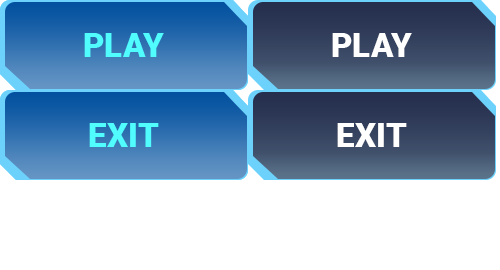
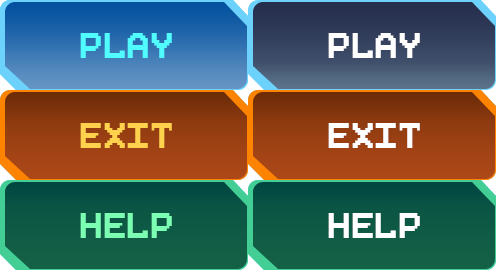
Completed ui

diff --git a/main.cpp b/main.cpp
@@ -51,7 +51,6 @@ int main(int argc, char* argv[])
     Click = Mix_LoadWAV("sounds/click.wav");
     Shoot = Mix_LoadWAV("sounds/shoot.wav");
     Over = Mix_LoadWAV("sounds/game_over.wav");
-    if(Over==nullptr) cout << "error";
     get_hit = Mix_LoadWAV("sounds/get_hit.wav");
     Start = Mix_LoadWAV("sounds/start.wav");
     point = Mix_LoadWAV("sounds/point.wav");
@@ -83,23 +82,34 @@ int main(int argc, char* argv[])
     SDL_Texture* backgroundMenu = loadTexture("images/bgMenu.png",renderer);
     SDL_Texture* backgroundGame = loadTexture("images/backgroundGame.png",renderer);
     SDL_Texture* ButtonTexture = loadTexture("images/Button.png",renderer);
-    SDL_Texture* titleTexture = loadTexture("images/title.png",renderer);
     SDL_Texture* number = loadTexture("images/Number.png",renderer);
     SDL_Texture* gOver = loadTexture("images/game_over.png",renderer);
     SDL_Texture* score_gameTexture = loadTexture("images/score_game.png",renderer);
+    SDL_Texture* PauseTexture = loadTexture("images/pausebutton.png",renderer);
+    SDL_Texture* HelpTexture = loadTexture("images/help.png",renderer);
+    SDL_Texture* backTexture = loadTexture("images/backbutton.png",renderer);
 
     SDL_Rect score_game = {HIGH_SCORE_TEXTPX,HIGH_SCORE_TEXTPY,161,45};
-    SDL_Rect rendertitleRect = {TITLE_POSX,TITLE_POSY,TITLE_WIDTH,TITLE_HEIGHT};
     SDL_Rect renderbgRect = {0,0,SCREEN_WIDTH,SCREEN_HEIGHT};
     SDL_Rect RectPlayButton[BUTTON_MOUSE_TOTAL];
     SDL_Rect RectExitButton[BUTTON_MOUSE_TOTAL];
+    SDL_Rect RectHelpButton[BUTTON_MOUSE_TOTAL];
+    SDL_Rect RectPauseButton[BUTTON_MOUSE_TOTAL];
+    SDL_Rect RectBackButton[BUTTON_MOUSE_TOTAL];
+
     Button playButton(PLAY_BUTTON_POSX,PLAY_BUTTON_POSY);
     Button exitButton(EXIT_BUTTON_POSX,EXIT_BUTTON_POSY);
-    playButton.setRect(RectPlayButton,0);
-    exitButton.setRect(RectExitButton,1);
+    Button helpButton(HELP_BUTTON_POSX,HELP_BUTTON_POSY);
+    Button backButton(BACK_BUTTON_POSX,BACK_BUTTON_POSY);
+    Button pauseButton(PAUSE_BUTTON_POSX,PAUSE_BUTTON_POSY);
+    playButton.setRect(RectPlayButton,0,1);
+    exitButton.setRect(RectExitButton,1,1);
+    helpButton.setRect(RectHelpButton,2,1);
+    backButton.setRect(RectBackButton,0,2);
+    pauseButton.setRect(RectPauseButton,0,2);
 
     //Game manager
-    bool quit = false,playagain = false, gameover = false;
+    bool quit = false,playagain = false, gameover = false, pause = false;
     int lastscore = 0;
     Uint32 speedTimer = 0;
     Uint32 lastShootTime = SDL_GetTicks();
@@ -114,36 +124,46 @@ int main(int argc, char* argv[])
             switch (display)
             {
             case menu:
+                {
                     SDL_RenderCopy(renderer,backgroundMenu,NULL,NULL);
                     while(SDL_PollEvent(&e)!=0)
                     {
                         if(e.type==SDL_QUIT)    quit = true;
 
                         if(e.type==SDL_KEYDOWN&&e.key.keysym.sym==SDLK_ESCAPE) quit = true;
-                        if(playButton.handleEventInside(&e,0)) playButton.currentSprite = BUTTON_MOUSE_OVER;
+                        if(playButton.handleEventInside(&e,1)) playButton.currentSprite = BUTTON_MOUSE_OVER;
                         else playButton.currentSprite = BUTTON_MOUSE_OUT;
-                        if(exitButton.handleEventInside(&e,0)) exitButton.currentSprite = BUTTON_MOUSE_OVER;
+                        if(exitButton.handleEventInside(&e,1)) exitButton.currentSprite = BUTTON_MOUSE_OVER;
                         else exitButton.currentSprite = BUTTON_MOUSE_OUT;
-                        if(playButton.handleEventInside(&e,0)&&e.type == SDL_MOUSEBUTTONDOWN) {
+                        if(helpButton.handleEventInside(&e,1)) helpButton.currentSprite = BUTTON_MOUSE_OVER;
+                        else helpButton.currentSprite = BUTTON_MOUSE_OUT;
+                        if(playButton.handleEventInside(&e,1)&&e.type == SDL_MOUSEBUTTONDOWN) {
                             playagain = 1;
                             display = game;
                             Mix_PlayChannel(-1,Click,0);
                             Mix_HaltMusic();
                             Mix_PlayMusic(gameMusic,-1);
                         }
-                        if(exitButton.handleEventInside(&e,0)&&e.type == SDL_MOUSEBUTTONDOWN) {
-                                quit = true;
-                                Mix_PlayChannel(-1,Click,0);
+                        if(exitButton.handleEventInside(&e,1)&&e.type == SDL_MOUSEBUTTONDOWN) {
+                            quit = true;
+                            Mix_PlayChannel(-1,Click,0);
+                        }
+                        if(helpButton.handleEventInside(&e,1)&&e.type == SDL_MOUSEBUTTONDOWN) {
+                            display = helpscene;
+                            Mix_PlayChannel(-1,Click,0);
                         }
 
                     }
                     RenderNumber(renderer, number, 1, Nova.score);
-                    playButton.render(renderer, &RectPlayButton[playButton.currentSprite], ButtonTexture);
-                    exitButton.render(renderer, &RectExitButton[exitButton.currentSprite], ButtonTexture);
-                    SDL_RenderCopy(renderer,titleTexture,NULL,&rendertitleRect);
+                    playButton.render(renderer, &RectPlayButton[playButton.currentSprite], ButtonTexture,1);
+                    exitButton.render(renderer, &RectExitButton[exitButton.currentSprite], ButtonTexture,1);
+                    helpButton.render(renderer, &RectHelpButton[helpButton.currentSprite], ButtonTexture,1);
                     speedTimer = SDL_GetTicks();
                     break;
+                }
             case game:
+                {
+                    SDL_RenderCopy(renderer,backgroundGame,&renderbgRect,NULL);
                     if(gameover) {
                         while(!quit) {
                             while(SDL_PollEvent(&e)!=0) if(e.type==SDL_QUIT) quit = true;
@@ -155,6 +175,7 @@ int main(int argc, char* argv[])
                             break;
                             }
                             else if(states[SDL_SCANCODE_RETURN]) {
+                            Mix_PlayMusic(gameMusic,-1);
                             playagain = 1;
                             break;
                             }
@@ -174,8 +195,41 @@ int main(int argc, char* argv[])
                         Nova.radius = 290;
                         Mix_PlayChannel(-1,Start,0);
                     }
-                    SDL_RenderCopy(renderer,backgroundGame,&renderbgRect,NULL);
-                    while(SDL_PollEvent(&e)!=0) if(e.type==SDL_QUIT) quit = true;
+                    while(pause&&!quit) {
+                            while(SDL_PollEvent(&e)!=0)
+                            {
+                                if(e.type==SDL_QUIT) quit = true;
+                                if(e.type==SDL_KEYDOWN&&e.key.keysym.sym==SDLK_ESCAPE) {
+                                        display = menu;
+                                        pause = 0;
+                                        Mix_PlayMusic(menuMusic,-1);
+                                }
+                                if(pauseButton.handleEventInside(&e,2)) pauseButton.currentSprite = BUTTON_MOUSE_OVER;
+                                else pauseButton.currentSprite = BUTTON_MOUSE_OUT;
+                                if(pauseButton.handleEventInside(&e,2)&&e.type == SDL_MOUSEBUTTONDOWN)
+                                {
+                                    pause = 0;
+                                    Mix_PlayChannel(-1,Click,0);
+                                    pauseButton.setRect(RectPauseButton,0,2);
+                                    Mix_ResumeMusic();
+                                }
+                                pauseButton.render(renderer, &RectPauseButton[pauseButton.currentSprite], PauseTexture, 2);
+                            }
+
+                    }
+                    while(SDL_PollEvent(&e)!=0)
+                    {
+                            if(e.type==SDL_QUIT) quit = true;
+                            if(pauseButton.handleEventInside(&e,2)) pauseButton.currentSprite = BUTTON_MOUSE_OVER;
+                            else pauseButton.currentSprite = BUTTON_MOUSE_OUT;
+                            if(pauseButton.handleEventInside(&e,2)&&e.type == SDL_MOUSEBUTTONDOWN)
+                            {
+                                pause = 1;
+                                Mix_PauseMusic();
+                                Mix_PlayChannel(-1,Click,0);
+                                pauseButton.setRect(RectPauseButton,1,2);
+                            }
+                    }
                     const Uint8 *states = SDL_GetKeyboardState(NULL);
                     if( states[SDL_SCANCODE_A] || states[SDL_SCANCODE_LEFT])
                         {
@@ -206,9 +260,9 @@ int main(int argc, char* argv[])
                             Mix_PlayMusic(menuMusic,-1);
                         }
                     else ;
-                //asteroid
-                if(SDL_GetTicks() > lastspawnAster + 5000)
-                    {
+                    //asteroid
+                    if(SDL_GetTicks() > lastspawnAster + 5000)
+                        {
                         lastspawnAster = SDL_GetTicks();
                         int asterAmount = rand()%5;
                         for(int i = 0; i < asterAmount; i++)
@@ -217,8 +271,8 @@ int main(int argc, char* argv[])
                             (asteroids).push_back(a);
                         }
                     }
-                for(int i = 0; i < (asteroids).size(); i++)
-                    {
+                    for(int i = 0; i < (asteroids).size(); i++)
+                        {
                         (asteroids)[i].render(renderer,asterTexture,aster.Width,aster.Height);
                         (asteroids)[i].moving();
 
@@ -237,18 +291,19 @@ int main(int argc, char* argv[])
                             asteroids.erase(asteroids.begin() + i);
                         }
                     }
-                SDL_RenderCopy(renderer, score_gameTexture, NULL, &score_game);
-                renderHealth(renderer,Nova.shipHealthTexture, Nova.health);
-                Nova.render(renderer,Earth.node.renderQuad,Earth.planetQuad,Shoot,bulletExplode);
-                RenderNumber(renderer,number,2,Nova.score);
-                Earth.SetRotation(speedTimer);
-                if(lastscore + 1 == Nova.score) {
+                    pauseButton.render(renderer, &RectPauseButton[pauseButton.currentSprite], PauseTexture, 2);
+                    SDL_RenderCopy(renderer, score_gameTexture, NULL, &score_game);
+                    renderHealth(renderer,Nova.shipHealthTexture, Nova.health);
+                    Nova.render(renderer,Earth.node.renderQuad,Earth.planetQuad,Shoot,bulletExplode);
+                    RenderNumber(renderer,number,2,Nova.score);
+                    Earth.SetRotation(speedTimer);
+                    if(lastscore + 1 == Nova.score) {
                         Earth.node.Restart(),lastscore = Nova.score;
                         Mix_PlayChannel(-1,point,0);
                 }
-                if(speedTimer + 9000 < SDL_GetTicks()) Earth.speed+=0.1f,speedTimer = SDL_GetTicks();
-                Earth.render(renderer);
-                if(Nova.health == 0) {
+                    if(speedTimer + 9000 < SDL_GetTicks()) Earth.speed+=0.1f,speedTimer = SDL_GetTicks();
+                    Earth.render(renderer);
+                    if(Nova.health == 0) {
                     Mix_PauseMusic();
                     Mix_PlayChannel(-1,Over,0);
                     gameover = 1;
@@ -256,7 +311,25 @@ int main(int argc, char* argv[])
                     SDL_Rect dRect = {OVER_POSX,OVER_POSY,OVER_WIDTH,OVER_HEIGHT};
                     SDL_RenderCopy(renderer,gOver,NULL,&dRect);
                 }
-                break;
+                    break;
+                }
+            case helpscene:
+                {
+                    SDL_RenderCopy(renderer,HelpTexture,NULL,NULL);
+                    while(SDL_PollEvent(&e)!=0)
+                    {
+                        if(e.type==SDL_QUIT)    quit = true;
+                        if(e.type==SDL_KEYDOWN&&e.key.keysym.sym==SDLK_ESCAPE) display = menu;
+                        if(backButton.handleEventInside(&e,2)) backButton.currentSprite = BUTTON_MOUSE_OVER;
+                        else backButton.currentSprite = BUTTON_MOUSE_OUT;
+                        if(backButton.handleEventInside(&e,2)&&e.type == SDL_MOUSEBUTTONDOWN) {
+                            display = menu;
+                            Mix_PlayChannel(-1,Click,0);
+                        }
+
+                    }
+                    backButton.render(renderer, &RectBackButton[backButton.currentSprite], backTexture, 2);
+                }
         }
         SDL_RenderPresent( renderer );
         }

diff --git a/ui.cpp b/ui.cpp
@@ -14,14 +14,23 @@ Button::Button(int x, int y)
 
 	currentSprite = BUTTON_MOUSE_OUT;
 }
-void Button::setRect(SDL_Rect* re,int type)
+void Button::setRect(SDL_Rect* re,int type,int kind)
 {
+    int width,height;
+    if(kind == 1) {
+         width = MAIN_BUTTON_WIDTH;
+         height = MAIN_BUTTON_HEIGHT;
+    }
+    if(kind == 2) {
+        width = GAME_BUTTON_WIDTH;
+        height = GAME_BUTTON_HEIGHT;
+    }
     for(int i = 0; i < BUTTON_MOUSE_TOTAL; i++)
     {
-        re[i].x = MAIN_BUTTON_WIDTH*i;
-        re[i].y = MAIN_BUTTON_HEIGHT*type;
-        re[i].w = MAIN_BUTTON_WIDTH;
-        re[i].h = MAIN_BUTTON_HEIGHT;
+        re[i].x = width*i;
+        re[i].y = height*type;
+        re[i].w = width;
+        re[i].h = height;
     }
 }
 bool Button::handleEventInside(SDL_Event* e,int sizeB)
@@ -37,7 +46,10 @@ bool Button::handleEventInside(SDL_Event* e,int sizeB)
 			button_width = MAIN_BUTTON_WIDTH;
 			button_height = MAIN_BUTTON_HEIGHT;
 		}
-		else;
+		else if(sizeB == GAME_BUTTON) {
+            button_width = GAME_BUTTON_WIDTH;
+            button_height = GAME_BUTTON_HEIGHT;
+		}
         if(x < pPosition.x) inside = false;
         else if (x > pPosition.x + button_width) inside = false;
         else if (y < pPosition.y) inside = false;
@@ -46,9 +58,18 @@ bool Button::handleEventInside(SDL_Event* e,int sizeB)
     }
     return false;
 }
-void Button::render(SDL_Renderer* renderer, SDL_Rect* currentClip, SDL_Texture* texture)
+void Button::render(SDL_Renderer* renderer, SDL_Rect* currentClip, SDL_Texture* texture,int kind)
 {
-    SDL_Rect renderQuad = {pPosition.x,pPosition.y,MAIN_BUTTON_WIDTH,MAIN_BUTTON_HEIGHT};
+    int width,height;
+    if(kind == 1) {
+         width = MAIN_BUTTON_WIDTH;
+         height = MAIN_BUTTON_HEIGHT;
+    }
+    if(kind == 2) {
+        width = GAME_BUTTON_WIDTH;
+        height = GAME_BUTTON_HEIGHT;
+    }
+    SDL_Rect renderQuad = {pPosition.x, pPosition.y, width, height};
     SDL_RenderCopy(renderer, texture, currentClip, &renderQuad);
 }
 void Button::free(SDL_Texture* ButtonTexture)

diff --git a/headers/SDL_ultils.h b/headers/SDL_ultils.h
@@ -12,7 +12,7 @@
 
 enum SCENE
 {
-    menu, game
+    menu, game, helpscene
 };
 enum ButtonSprite
 {
@@ -32,19 +32,27 @@ const int TITLE_WIDTH = 800;
 const int TITLE_HEIGHT = 496;
 const int MAIN_BUTTON_WIDTH = 248;
 const int MAIN_BUTTON_HEIGHT = 90;
-const int HIGH_SCORE_MENU_WIDTH = 0;
-const int HIGH_SCORE_MENU_HEIGHT = 0;
+const int PAUSE_BUTTON_WIDTH = 54;
+const int PAUSE_BUTTON_HEIGHT = 54;
+const int GAME_BUTTON_WIDTH = 97;
+const int GAME_BUTTON_HEIGHT = 85;
 const int OVER_WIDTH =  684;
 const int OVER_HEIGHT = 137;
 
 const int TITLE_POSX = 0;
 const int TITLE_POSY = 0;
-const int PLAY_BUTTON_POSX = 272;
-const int PLAY_BUTTON_POSY = 439;
+const int PLAY_BUTTON_POSX = 275;
+const int PLAY_BUTTON_POSY = 385;
 const int EXIT_BUTTON_POSX = 275;
-const int EXIT_BUTTON_POSY = 591;
-const int HIGH_SCORE_MENUPX = 130;
-const int HIGH_SCORE_MENUPY = 429;
+const int EXIT_BUTTON_POSY = 655;
+const int HELP_BUTTON_POSX = 275;
+const int HELP_BUTTON_POSY = 520;
+const int BACK_BUTTON_POSX = 0;
+const int BACK_BUTTON_POSY = 0;
+const int PAUSE_BUTTON_POSX = 0;
+const int PAUSE_BUTTON_POSY = 715;
+const int HIGH_SCORE_MENUPX = 121;
+const int HIGH_SCORE_MENUPY = 739;
 const int HIGH_SCORE_TEXTPX = 0;
 const int HIGH_SCORE_TEXTPY = 7;
 const int HIGH_SCORE_GAMEPX = 165;

diff --git a/headers/ui.h b/headers/ui.h
@@ -14,9 +14,9 @@ public:
     Button();
     void free(SDL_Texture* ButtonTexture);
     //335,144-11,22;362,117-18,212;307,193-29,371;316,179-45,623;374,160-424,23
-    void setRect(SDL_Rect* re,int type);
+    void setRect(SDL_Rect* re,int type,int kind);
     bool handleEventInside(SDL_Event* e,int sizeB);
-    void render(SDL_Renderer* renderer,SDL_Rect* currentClip, SDL_Texture* texture);
+    void render(SDL_Renderer* renderer,SDL_Rect* currentClip, SDL_Texture* texture, int kind);
 private:
     SDL_Point pPosition;
 
